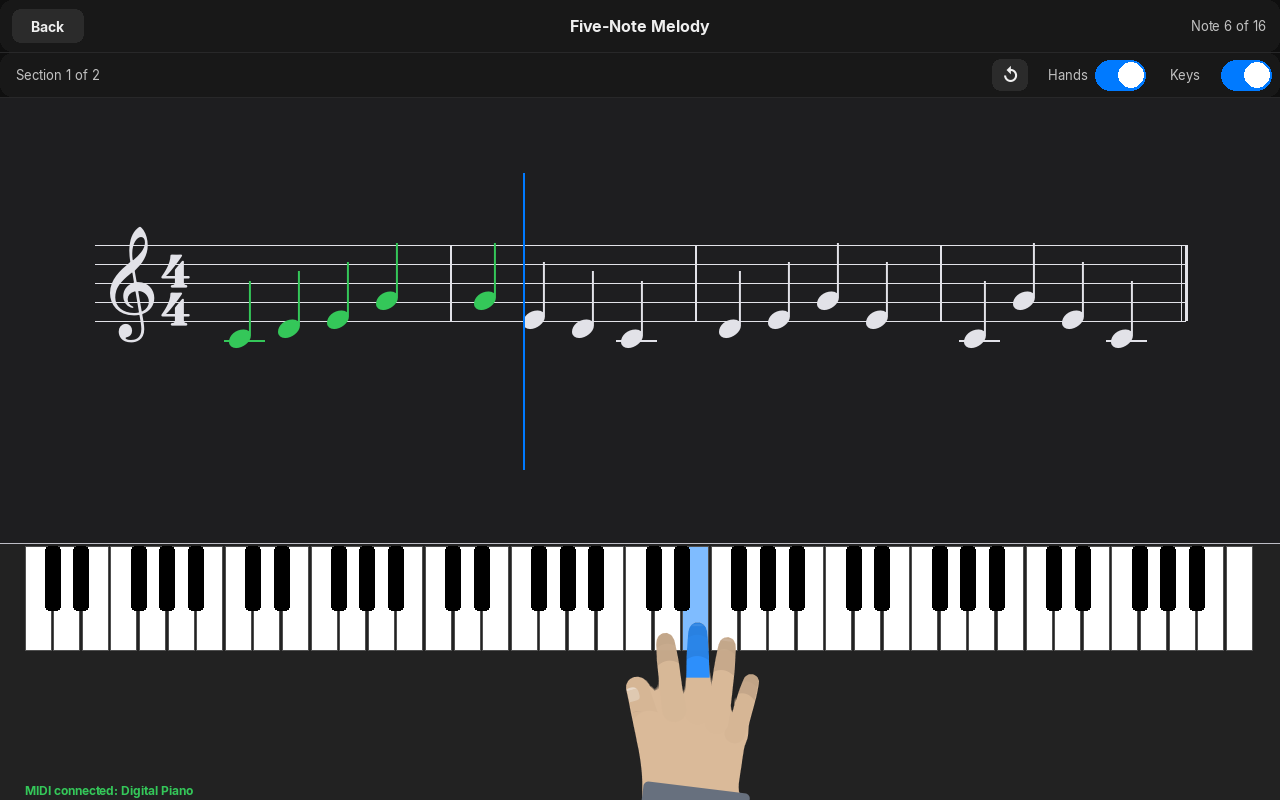
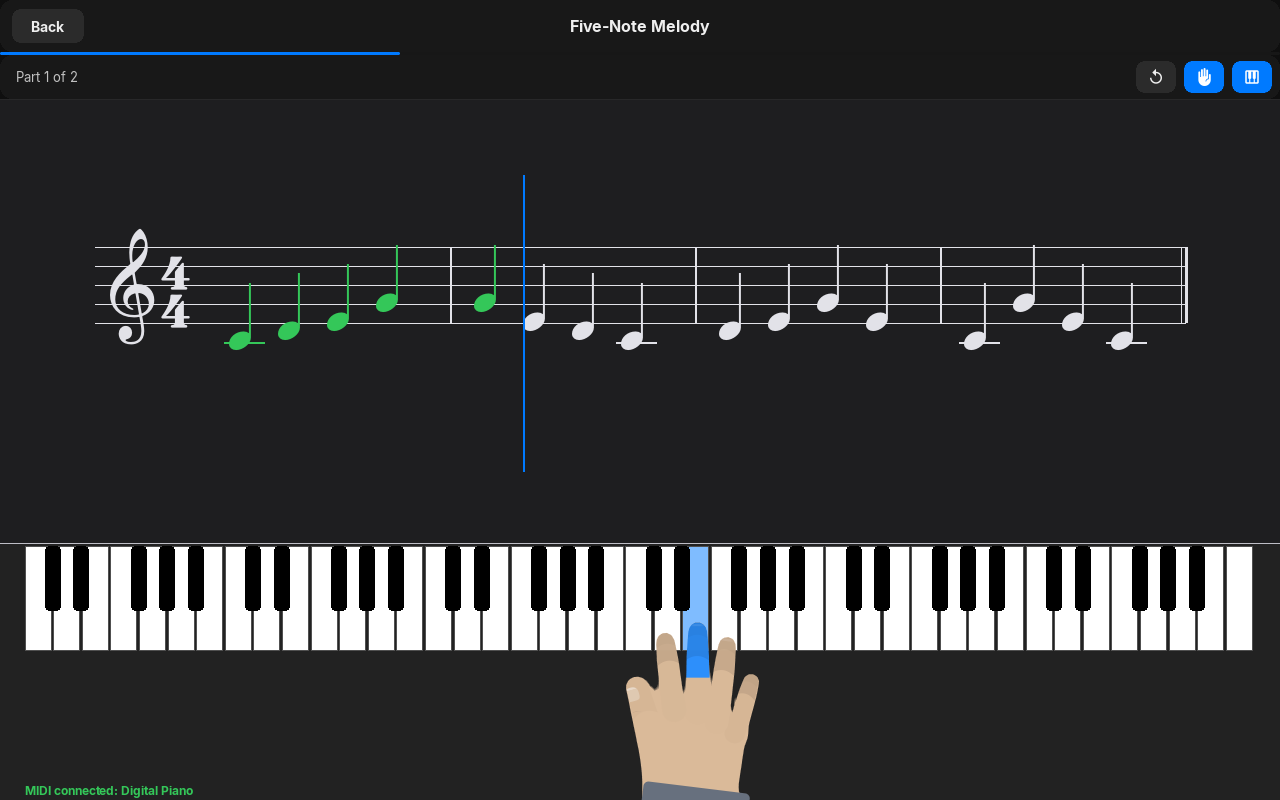
Docs, README and screenshots for the redesign
Today's session, Your Instrument and the sound question, the song page's
next step, Pianove playing the other hand, the tempo screen and the
result with your take, the twelve songs and the third course. New
screenshots: the instrument modes, the sound question, all steps of a
song, the tempo screen and the result.

Claude-Session: https://claude.ai/code/session_013g5yxCWctKonEykC6ZfNcF

Changed region(s): [[0.0625, 0.2812, 0.9375, 0.4375], [0.0, 0.0625, 0.3125, 0.125], [0.8438, 0.0312, 1.0, 0.125]]

diff --git a/docs/docs/songs.html b/docs/docs/songs.html
@@ -47,8 +47,8 @@
     <div class="sidebar-toc">
       <a href="#library">Your song library</a>
       <a href="#path">The learning path</a>
-      <a href="#tempo">Tempo and metronome</a>
-      <a href="#free">Free practice</a>
+      <a href="#tempo">Tempo, metronome and the other hand</a>
+      <a href="#free">Play it your way</a>
       <a href="#score">Reading the score</a>
     </div>
     <a href="musicxml.html">Importing MusicXML</a>
@@ -70,13 +70,14 @@
     </div>
 <section class="doc-section" id="library">
       <h2>Your song library</h2>
-      <p>The <strong>Songs</strong> tab lists every piece you imported, with its composer, length and difficulty. Pianove rates the difficulty from what makes a piece hard to play: keys per beat, whether both hands play, chords, black keys, the range each hand covers and how far it jumps. Filter by difficulty, press <strong>Import</strong> to add a piece, <strong>View</strong> to read the score and <strong>Practice</strong> to learn it. Deleting takes two taps: the bin turns into a red <em>Delete?</em>.</p>
+      <p>The <strong>Songs</strong> tab lists your pieces with their composer, length, difficulty and how far you are on their learning path. Twelve come with Pianove, in simple arrangements for both hands: <em>Mary Had a Little Lamb</em>, <em>Twinkle, Twinkle, Little Star</em>, <em>Alle meine Entchen</em>, <em>Frère Jacques</em>, <em>Ode to Joy</em>, <em>Jingle Bells</em>, <em>When the Saints Go Marching In</em>, <em>Amazing Grace</em>, <em>Greensleeves</em>, the <em>Minuet in G</em>, the theme of <em>Für Elise</em> and Pachelbel's <em>Canon in D</em>. A song you delete stays deleted. Pianove rates the difficulty from what makes a piece hard to play: keys per beat, whether both hands play, chords, black keys, the range each hand covers and how far it jumps. Filter by difficulty, press <strong>Import</strong> to add a piece, and tap a song to open it. Deleting takes two taps: the bin turns into a red <em>Delete?</em>.</p>
       <figure class="shot "><img src="../img/ss-songs.png" alt="The Songs tab" loading="lazy"><figcaption>The Songs tab</figcaption></figure>
     </section>
     <section class="doc-section" id="path">
       <h2>The learning path</h2>
-      <p>Pressing <strong>Practice</strong> opens the song's page. Its <strong>Learning path</strong> cuts the piece into parts of about twelve beats. The first part says what it asks for; every later one what it brings for the first time: <em>chords</em>, <em>black keys</em>, <em>leaps</em>, <em>a new hand position</em>, <em>faster notes</em>, <em>hands together</em>.</p>
-      <figure class="shot "><img src="../img/ss-song-path.png" alt="Chopin's Waltz in A minor as a learning path" loading="lazy"><figcaption>Chopin's Waltz in A minor as a learning path</figcaption></figure>
+      <p>A song's page shows one thing first: the <strong>next step</strong>, with <strong>Continue</strong> (or <strong>Start learning</strong>) and <strong>Listen</strong>. <strong>Adjust</strong> opens tempo, metronome and how you want to play; <strong>All steps</strong> opens the whole path. The <strong>learning path</strong> cuts the piece into parts of about twelve beats. The first part says what it asks for; every later one what it brings for the first time: <em>chords</em>, <em>black keys</em>, <em>leaps</em>, <em>a new hand position</em>, <em>faster notes</em>, <em>hands together</em>.</p>
+      <figure class="shot "><img src="../img/ss-song-path.png" alt="A song's page: the next step first" loading="lazy"><figcaption>A song's page: the next step first</figcaption></figure>
+      <figure class="shot "><img src="../img/ss-song-steps.png" alt="All steps of Chopin's Waltz in A minor" loading="lazy"><figcaption>All steps of Chopin's Waltz in A minor</figcaption></figure>
       <p>For every new part you learn:</p>
       <ol class="steps">
         <li><strong>The right hand</strong>, note by note, then in tempo.</li>
@@ -86,17 +87,17 @@
       <p>Every two parts are then <strong>joined</strong> and played in tempo one after the other, and the path ends with <strong>the whole piece</strong>. A part that repeats an earlier one is not learned twice; one that is nearly the same only gets a short step for the variation. Each step can earn up to three stars, and the next step unlocks when you finish the one before.</p>
     </section>
     <section class="doc-section" id="tempo">
-      <h2>Tempo and metronome</h2>
-      <p>The row under the mode switch applies to every step and to free practice: <strong>Tempo</strong> slows the piece down to 50–90 % of its own tempo (the BPM is shown next to it), and <strong>Metronome</strong> clicks every beat, louder on the first of the bar, whenever you play in tempo, count-in included.</p>
+      <h2>Tempo, metronome and the other hand</h2>
+      <p>Under <strong>Adjust</strong>, for every step and for playing it your way: <strong>Tempo</strong> slows the piece down to 50–90 % of its own tempo (the BPM is shown next to it), and <strong>Metronome</strong> clicks every beat, louder on the first of the bar, whenever you play in tempo, count-in included. <strong>Pianove plays the other hand</strong> (on unless you switch it off): while you learn one hand, Pianove plays the other one quietly, in a different colour, so you hear the whole piece. In tempo it keeps time; note by note it waits for you.</p>
     </section>
     <section class="doc-section" id="free">
-      <h2>Free practice</h2>
-      <p>Switch to <strong>Free practice</strong> to play the piece your way: choose the right hand, left hand or both, and the <strong>bars</strong> to work on (<em>from … to …</em>, or <em>Whole piece</em>). Then <strong>Practice</strong> (the music waits for you), <strong>Play along</strong> (in tempo after a count-in) or <strong>Listen</strong> (Pianove plays it to you, with the hands).</p>
-      <figure class="shot "><img src="../img/ss-song-free.png" alt="Free practice: bars 9–16, right hand, with tempo and metronome" loading="lazy"><figcaption>Free practice: bars 9–16, right hand, with tempo and metronome</figcaption></figure>
+      <h2>Play it your way</h2>
+      <p>Also under <strong>Adjust</strong>: choose the right hand, left hand or both, and the <strong>bars</strong> to work on (<em>from … to …</em>, or <em>Whole piece</em>). Then <strong>Note by note</strong> (the music waits for you), <strong>In tempo</strong> (after a count-in) or <strong>Listen</strong> (Pianove plays it to you, with the hands). After a run in tempo you see how it went and can listen to your take (see <a href="lessons.html#result">Lessons</a>).</p>
+      <figure class="shot "><img src="../img/ss-song-free.png" alt="Adjust: tempo, metronome, the other hand, and bars 9–16 with the right hand" loading="lazy"><figcaption>Adjust: tempo, metronome, the other hand, and bars 9–16 with the right hand</figcaption></figure>
     </section>
     <section class="doc-section" id="score">
       <h2>Reading the score</h2>
-      <p><strong>View</strong> shows the full score, typeset by <a href="../pylute.html">PyLute</a>: title and composer, grand staff, beams, chords, accidentals and ties, page by page. <strong>Practice</strong> at the top right takes you to the song's page.</p>
+      <p><strong>Sheet music</strong> (top right of a song's page) shows the full score, typeset by <a href="../pylute.html">PyLute</a>: title and composer, grand staff, beams, chords, accidentals and ties, page by page. <strong>Back</strong> returns to the song's page.</p>
       <figure class="shot "><img src="../img/ss-song-score.png" alt="The score viewer" loading="lazy"><figcaption>The score viewer</figcaption></figure>
     </section>
     <div class="doc-nav-footer"><a href="lessons.html" class="doc-nav-link"><div class="doc-nav-dir">Previous</div><div class="doc-nav-title">← Lessons &amp; Courses</div></a><a href="musicxml.html" class="doc-nav-link doc-nav-link--next"><div class="doc-nav-dir">Next</div><div class="doc-nav-title">Importing MusicXML →</div></a></div>

diff --git a/docs/docs/midi-setup.html b/docs/docs/midi-setup.html
@@ -43,10 +43,11 @@
     <span class="sidebar-group-label">Playing</span>
     <a href="midi-setup.html" class="active" aria-current="page">Keyboard &amp; Microphone</a>
     <div class="sidebar-toc">
+      <a href="#instrument">Your instrument</a>
       <a href="#midi">Connecting a MIDI keyboard</a>
       <a href="#range">Your keyboard's range</a>
-      <a href="#sound">Silent keyboards</a>
-      <a href="#microphone">Hear My Piano: the microphone</a>
+      <a href="#sound">Does your keyboard make a sound?</a>
+      <a href="#microphone">Acoustic piano: the microphone</a>
       <a href="#computer">No instrument: computer keyboard and mouse</a>
       <a href="#trouble">Troubleshooting</a>
     </div>
@@ -66,29 +67,35 @@
     <div class="docs-page-header">
       <p class="page-eyebrow">Playing</p>
       <h1>Keyboard &amp; Microphone</h1>
-      <p class="page-subtitle">Play on a MIDI keyboard, on any acoustic piano through the microphone, or on your computer keyboard.</p>
+      <p class="page-subtitle">Play on a MIDI keyboard, on any acoustic piano through the microphone, or on your computer keyboard. You choose it in one place: <strong>Settings → Your Instrument</strong>.</p>
       <div class="page-meta"><span class="meta-item">USB MIDI</span><span class="meta-item">Microphone (beta)</span><span class="meta-item">Computer keyboard</span></div>
     </div>
+<section class="doc-section" id="instrument">
+      <h2>Your instrument</h2>
+      <p><strong>Settings → Your Instrument</strong> starts with three choices: <em>MIDI keyboard</em>, <em>Acoustic piano</em> and <em>No instrument</em>. Below them you only see what belongs to your choice: the keyboard as Pianove sees it and its range, the microphone's fine-tuning, or the computer keys to use.</p>
+      <div class="shot-pair"><figure class="shot "><img src="../img/ss-instrument-mic.png" alt="Acoustic piano: Pianove listens through the microphone" loading="lazy"><figcaption>Acoustic piano: Pianove listens through the microphone</figcaption></figure><figure class="shot "><img src="../img/ss-instrument-none.png" alt="No instrument: which computer keys play which notes" loading="lazy"><figcaption>No instrument: which computer keys play which notes</figcaption></figure></div>
+    </section>
 <section class="doc-section" id="midi">
       <h2>Connecting a MIDI keyboard</h2>
       <p>Plug the keyboard in by USB, before or while Pianove is running. It is found automatically, its name appears at the bottom of the sidebar and under the on-screen keyboard (<em>MIDI connected: …</em>), and it reconnects by itself if you unplug it and plug it back in.</p>
-      <figure class="shot "><img src="../img/ss-midi-setup.png" alt="Settings → MIDI Setup: the keyboard as Pianove sees it" loading="lazy"><figcaption>Settings → MIDI Setup: the keyboard as Pianove sees it</figcaption></figure>
+      <figure class="shot "><img src="../img/ss-midi-setup.png" alt="Settings → Your Instrument: the keyboard as Pianove sees it" loading="lazy"><figcaption>Settings → Your Instrument: the keyboard as Pianove sees it</figcaption></figure>
     </section>
     <section class="doc-section" id="range">
       <h2>Your keyboard's range</h2>
       <p>Keyboards have 25, 49, 61, 76 or 88 keys. The first time a keyboard is connected, Pianove either recognises the model by name or asks you to press its <strong>lowest</strong> and then its <strong>highest</strong> key. The on-screen keyboard in lessons then matches the one in front of you.</p>
-      <p>To do it again, for example with a different keyboard, open <strong>Settings → Keyboard &amp; Sound → MIDI Setup → Reconfigure keyboard range</strong>.</p>
+      <p>To do it again, for example with a different keyboard, open <strong>Settings → Your Instrument → Reconfigure keyboard range</strong>.</p>
     </section>
     <section class="doc-section" id="sound">
-      <h2>Silent keyboards</h2>
-      <p>Many controller keyboards make no sound of their own. Turn on <strong>Settings → Keyboard &amp; Sound → MIDI Sound Output</strong> and Pianove plays a sampled grand piano for every key you press, with the sustain pedal. See <a href="synthesiser.html">Piano Sound</a>.</p>
+      <h2>Does your keyboard make a sound?</h2>
+      <p>Many controller keyboards make no sound of their own. The first time a keyboard is connected, Home asks once: <em>Does your keyboard make a sound of its own?</em> Answer <strong>No, it stays silent</strong> and Pianove plays a sampled grand piano for every key you press, with the sustain pedal; answer <strong>Yes</strong> and Pianove stays quiet. The same question, with your answer, is on <strong>Settings → Your Instrument</strong>. See <a href="synthesiser.html">Piano Sound</a>.</p>
+      <figure class="shot "><img src="../img/ss-home-sound-question.png" alt="The question on Home, asked once" loading="lazy"><figcaption>The question on Home, asked once</figcaption></figure>
     </section>
     <section class="doc-section" id="microphone">
-      <h2>Hear My Piano: the microphone</h2>
+      <h2>Acoustic piano: the microphone</h2>
       <div class="callout callout--beta"><span class="callout-icon" aria-hidden="true">β</span><div><strong>Beta.</strong> Works best in a quiet room with the microphone near the piano. Expect the odd missed or extra note on very fast or very soft passages.</div></div>
-      <p>No MIDI cable? Pianove can listen to an acoustic piano, upright or grand, through the computer's microphone and work out which keys you play. Turn on <strong>Settings → Keyboard &amp; Sound → Hear My Piano (Microphone)</strong>, or choose <em>Acoustic piano: use the microphone</em> during setup.</p>
+      <p>No MIDI cable? Pianove can listen to an acoustic piano, upright or grand, through the computer's microphone and work out which keys you play. Choose <strong>Acoustic piano</strong> in <strong>Settings → Your Instrument</strong>, or choose <em>Acoustic piano: use the microphone</em> during setup.</p>
       <ul>
-        <li><strong>Sensitivity:</strong> the slider that appears below the switch. Raise it if soft notes are missed; lower it if notes appear that you didn't play.</li>
+        <li><strong>Fine-tuning:</strong> the slider on the same page. Raise it if soft notes are missed; lower it if notes appear that you didn't play.</li>
         <li><strong>It knows what comes next:</strong> during a lesson Pianove tells the detector which keys are expected, so the right note is recognised faster and reliably.</li>
         <li><strong>Any tuning:</strong> an old piano that is a little flat is still heard on the right keys.</li>
       </ul>
@@ -113,8 +120,8 @@
         <thead><tr><th>Problem</th><th>Try this</th></tr></thead>
         <tbody>
           <tr><td>“No MIDI keyboard: play with your computer keys …”</td><td>Check the cable and that the keyboard is on. Some keyboards need to be switched to USB-MIDI mode. Close other programs (a DAW) that may hold the port.</td></tr>
-          <tr><td>The on-screen keyboard is shifted</td><td>Reconfigure the range in Settings → MIDI Setup, or check that the keyboard's octave/transpose buttons are at zero.</td></tr>
-          <tr><td>Keys play no sound</td><td>Turn on MIDI Sound Output and check the volume.</td></tr>
+          <tr><td>The on-screen keyboard is shifted</td><td>Reconfigure the range in Settings → Your Instrument, or check that the keyboard's octave/transpose buttons are at zero.</td></tr>
+          <tr><td>Keys play no sound</td><td>In Settings → Your Instrument, answer <em>No, it stays silent</em>, and check the volume.</td></tr>
           <tr><td>“No microphone found”</td><td>Allow Pianove (your terminal or Python) to use the microphone in your system's privacy settings, and install <code>sounddevice</code>.</td></tr>
         </tbody>
       </table>

diff --git a/docs/docs/lessons.html b/docs/docs/lessons.html
@@ -47,6 +47,7 @@
       <a href="#courses">Courses</a>
       <a href="#theory">Explaining: theory scenes</a>
       <a href="#exercise">Playing: the piece</a>
+      <a href="#result">After a run in tempo</a>
       <a href="#hands">Hands and fingering</a>
       <a href="#languages">Languages</a>
     </div>
@@ -66,7 +67,7 @@
       <p class="page-eyebrow">Playing</p>
       <h1>Lessons &amp; Courses</h1>
       <p class="page-subtitle">Two built-in courses that explain an idea, show it with animated hands, and let you play it.</p>
-      <div class="page-meta"><span class="meta-item">16 lessons</span><span class="meta-item">2 courses</span><span class="meta-item">English · Deutsch</span></div>
+      <div class="page-meta"><span class="meta-item">24 lessons</span><span class="meta-item">3 courses</span><span class="meta-item">English · Deutsch</span></div>
     </div>
 <section class="doc-section" id="courses">
       <h2>Courses</h2>
@@ -77,6 +78,7 @@
         <tbody>
           <tr><td class="col-name">Beginner Path</td><td>Welcome to Pianove · C Major Scale · Five-Note Melody · G Major Introduction · Simple Waltz · Left Hand Basics · Two-Octave Journey · First Song</td></tr>
           <tr><td class="col-name">Melody Explorer</td><td>Natural Notes · Motif Building · Echo Phrases · D Major Scale · Pentatonic Groove · Folk Tune · Classical Theme · Final Melody</td></tr>
+          <tr><td class="col-name">Both Hands Together</td><td>Three Chords · Eighth Notes · Reading the Bass Clef · Melody over Bass · Dotted Notes · A Minor · Accompanying a Song · Your Piece for Both Hands</td></tr>
         </tbody>
       </table>
     </section>
@@ -87,12 +89,17 @@
     </section>
     <section class="doc-section" id="exercise">
       <h2>Playing: the piece</h2>
-      <p>Then you play from the staff (top right: <em>Note 6 of 16</em>). The piece is split into <strong>sections</strong> of a few bars:</p>
+      <p>Then you play from the staff. A thin line under the top bar shows how far you are, and <em>Part 1 of 3</em> where. The piece is split into <strong>parts</strong> of a few bars:</p>
       <ol class="steps">
         <li><strong>Practice:</strong> one section at a time. The music waits for the right key; the key is lit on the on-screen keyboard. Played notes turn green, wrong ones flash red.</li>
-        <li><strong>Final performance:</strong> after a count-in, the whole piece in tempo, with a moving cursor.</li>
+        <li><strong>In tempo:</strong> before it starts, a short screen says what changes now (the music no longer waits, keep going after a slip) and lets you go note by note once more. Then, after a count-in, the whole piece in tempo, with a moving cursor.</li>
       </ol>
-      <p>If too many notes go wrong in a row, Pianove steps back a section so you can consolidate it before moving on. The switches at the top hide or show the hands and the keys. In dark mode the staff is a dark sheet too, so long sessions are easier on the eyes.</p>
+      <p>If too many notes go wrong in a row, Pianove steps back a part so you can consolidate it before moving on. The two buttons at the top right hide or show the hands and the keys; ↻ starts the part again. In dark mode the staff is a dark sheet too, so long sessions are easier on the eyes.</p>
+    </section>
+    <section class="doc-section" id="result">
+      <h2>After a run in tempo</h2>
+      <p>The finish screen tells you more than a score: how many notes you hit, how many were <strong>on time</strong> (and whether you tend to rush or drag), and how this run compares with the last one. <strong>Listen to your take</strong> plays back exactly what you played; <strong>Save as audio</strong> writes it as a WAV file to your <code>Music/Pianove</code> folder. The same works for songs.</p>
+      <div class="shot-pair"><figure class="shot "><img src="../img/ss-tempo-intro.png" alt="Before the run in tempo" loading="lazy"><figcaption>Before the run in tempo</figcaption></figure><figure class="shot "><img src="../img/ss-result.png" alt="After it: timing, the last run, your take" loading="lazy"><figcaption>After it: timing, the last run, your take</figcaption></figure></div>
     </section>
     <section class="doc-section" id="hands">
       <h2>Hands and fingering</h2>

diff --git a/docs/docs/quickstart.html b/docs/docs/quickstart.html
@@ -90,22 +90,22 @@ pip install -r requirements.txt</code></pre>
     </section>
     <section class="doc-section" id="home">
       <h2>3. Find your way around</h2>
-      <p>After the setup you land on <strong>Home</strong>. The sidebar holds the four main areas: <strong>Home</strong>, <strong>Songs</strong>, <strong>Lessons</strong> and <strong>Practice</strong>, plus <strong>Settings</strong> at the bottom. With Creator Mode switched on, a fifth tab, <strong>Create</strong>, appears.</p>
+      <p>After the setup you land on <strong>Home</strong>. The sidebar holds the four main areas: <strong>Home</strong>, <strong>Songs</strong>, <strong>Lessons</strong> and <strong>Sight-Reading</strong>, plus <strong>Settings</strong> at the bottom. Not sure what to do? <strong>Today's session</strong> at the top of Home puts together a few minutes of practice for you. With Creator Mode switched on, a fifth tab, <strong>Create</strong>, appears.</p>
       <figure class="shot "><img src="../img/ss-home.png" alt="Home: what to do next, your streak and this week's practice" loading="lazy"><figcaption>Home: what to do next, your streak and this week's practice</figcaption></figure>
     </section>
     <section class="doc-section" id="first-lesson">
       <h2>4. Play your first lesson</h2>
       <ol class="steps">
-        <li>On the last setup screen press <strong>Start your first lesson</strong>. Later, <strong>Continue</strong> on Home takes you to the next one.</li>
+        <li>On the last setup screen press <strong>Start your first lesson</strong>. Later, <strong>Continue</strong> on Home takes you back to where you left off.</li>
         <li>The lesson first <strong>explains</strong> the idea in a few short animated screens. Read, listen, and play the keys it asks for.</li>
         <li>Then you <strong>play the piece</strong> from the staff. The key to play next is lit on the on-screen keyboard, and an animated hand shows the finger; the music waits for you. Play it on your keyboard, with the computer keys, or click it.</li>
-        <li>After each section comes the <strong>final performance</strong>: the whole piece in tempo, after a count-in.</li>
+        <li>After the parts you play the <strong>whole piece in tempo</strong>, after a count-in. Then you see how many notes were on time and can listen to your take.</li>
       </ol>
       <figure class="shot "><img src="../img/ss-lesson.png" alt="A lesson piece: notes you've played turn green, the blue line shows where you are" loading="lazy"><figcaption>A lesson piece: notes you've played turn green, the blue line shows where you are</figcaption></figure>
     </section>
     <section class="doc-section" id="first-song">
       <h2>5. Learn a song of your own</h2>
-      <p>Open <strong>Songs</strong>, press <strong>Import</strong> and pick a MusicXML file (<code>.musicxml</code>, <code>.xml</code> or <code>.mxl</code>). The repository includes one to try: <code>waltz-in-a-minorchopin.mxl</code>. Press <strong>Practice</strong> and Pianove builds a learning path that takes you from the first bars to the whole piece.</p>
+      <p>Open <strong>Songs</strong>: twelve pieces are already there, from <em>Mary Had a Little Lamb</em> to <em>Für Elise</em>. For more, press <strong>Import</strong> and pick a MusicXML file (<code>.musicxml</code>, <code>.xml</code> or <code>.mxl</code>); the repository includes <code>waltz-in-a-minorchopin.mxl</code> to try. Tap a song and Pianove builds a learning path that takes you from the first bars to the whole piece.</p>
       <p>Where to go next: <a href="songs.html">Songs &amp; Learning Path</a>, <a href="midi-setup.html">Keyboard &amp; Microphone</a>, <a href="settings.html">Settings</a>.</p>
     </section>
     <div class="doc-nav-footer"><div></div><a href="requirements.html" class="doc-nav-link doc-nav-link--next"><div class="doc-nav-dir">Next</div><div class="doc-nav-title">System Requirements →</div></a></div>

diff --git a/docs/docs/settings.html b/docs/docs/settings.html
@@ -73,19 +73,15 @@
         <thead><tr><th>Section</th><th>Setting</th><th>What it does</th></tr></thead>
         <tbody>
           <tr><td rowspan="2">Profile</td><td class="col-name">Name</td><td>How Pianove greets you</td></tr>
-          <tr><td class="col-name">Daily Goal</td><td>Minutes of practice a day, 5 to 60 (<a href="progress.html#home">more</a>)</td></tr>
-          <tr><td rowspan="6">Keyboard &amp; Sound</td><td class="col-name">MIDI Setup</td><td>The connected keyboard, its range and calibration (<a href="midi-setup.html#range">more</a>)</td></tr>
-          <tr><td class="col-name">Computer Keyboard</td><td>How to play without an instrument (<a href="midi-setup.html#computer">more</a>)</td></tr>
-          <tr><td class="col-name">MIDI Sound Output</td><td>Piano sound for silent keyboards; says so when the sound is unavailable (<a href="synthesiser.html">more</a>)</td></tr>
-          <tr><td class="col-name">Volume</td><td>Level of the piano sound, in percent</td></tr>
-          <tr><td class="col-name">Hear My Piano</td><td>Play an acoustic piano through the microphone (beta) (<a href="midi-setup.html#microphone">more</a>)</td></tr>
-          <tr><td class="col-name">Microphone Sensitivity</td><td>Shown while the microphone is on</td></tr>
+          <tr><td class="col-name">Daily Goal</td><td>Minutes of practice a day, 5 to 60; also sets how long today's session is (<a href="progress.html#home">more</a>)</td></tr>
+          <tr><td rowspan="2">Keyboard &amp; Sound</td><td class="col-name">Your Instrument</td><td>What you play on: a MIDI keyboard (its range, and whether Pianove makes the sound), an acoustic piano through the microphone, or the computer keys. Everything about it is on that one page (<a href="midi-setup.html">more</a>)</td></tr>
+          <tr><td class="col-name">Volume</td><td>Level of the piano sound, the metronome and listening, in percent; says so when the sound is unavailable (<a href="synthesiser.html">more</a>)</td></tr>
           <tr><td rowspan="2">Lessons</td><td class="col-name">Show Hands</td><td>The animated hands and their fingering (<a href="lessons.html#hands">more</a>)</td></tr>
           <tr><td class="col-name">Hands</td><td>Their skin tone</td></tr>
           <tr><td>Language</td><td class="col-name">Deutsch · English</td><td>The app and all built-in lessons</td></tr>
           <tr><td>Appearance</td><td class="col-name">Dark Mode</td><td>Dark or light colours, the staff included</td></tr>
           <tr><td>Content Creator</td><td class="col-name">Creator Mode</td><td>Adds the Create tab with the lesson and course editors (<a href="creator.html">more</a>)</td></tr>
-          <tr><td></td><td class="col-name">Reset Onboarding</td><td>Runs the first-start setup again; your progress stays</td></tr>
+          <tr><td></td><td class="col-name">Repeat the Setup</td><td>Runs the first-start setup again; your progress stays</td></tr>
         </tbody>
       </table>
     </section>

diff --git a/docs/docs/progress.html b/docs/docs/progress.html
@@ -77,11 +77,13 @@
       <h2>The Home dashboard</h2>
       <ul>
         <li><strong>Day streak</strong> (top right): days in a row you practised.</li>
-        <li><strong>Continue where you left off:</strong> the next lesson of your course.</li>
-        <li><strong>Today's goal:</strong> minutes practised today against your daily goal (10 minutes unless you change it in <strong>Settings → Profile → Daily Goal</strong>, 5 to 60). Reached, the ring turns into a tick.</li>
+        <li><strong>Today's session:</strong> a short plan made from where you are: a sight-reading warm-up, your next lesson, the next step of the song you're learning, and for a longer daily goal a little more sight-reading. <strong>Start</strong> opens the first item; each finish screen offers the next one, and the plan is kept for the day.</li>
+        <li><strong>Continue where you left off:</strong> the song or lesson you opened last, with a link to the other.</li>
+        <li><strong>Today's goal:</strong> minutes practised today against your daily goal (10 minutes unless you change it: tap the card, or <strong>Settings → Profile → Daily Goal</strong>, 5 to 60). Reached, the ring turns into a tick.</li>
         <li><strong>Your progress:</strong> streak, lessons done and total practice time.</li>
         <li><strong>Last 7 days:</strong> minutes per day as bars, today highlighted, with the goal as a dashed line.</li>
-        <li><strong>Sight reading</strong> (once you've done some): sessions, accuracy and sessions this week, then the <strong>achievements</strong>.</li>
+        <li><strong>Sight-reading</strong> (once you've done some): sessions, accuracy and sessions this week.</li>
+        <li><strong>Your repertoire:</strong> the songs you've learned all the way through, to play again with one tap; then the <strong>achievements</strong>.</li>
       </ul>
       <div class="shot-pair"><figure class="shot "><img src="../img/ss-home.png" alt="Home in dark mode" loading="lazy"><figcaption>Home in dark mode</figcaption></figure><figure class="shot "><img src="../img/ss-home-light.png" alt="…and in light mode" loading="lazy"><figcaption>…and in light mode</figcaption></figure></div>
     </section>

diff --git a/docs/docs/requirements.html b/docs/docs/requirements.html
@@ -84,7 +84,7 @@
           <tr><td class="col-name">mido</td><td>Reading MIDI messages from your keyboard.</td></tr>
           <tr><td class="col-name">python-rtmidi</td><td>The MIDI backend mido uses to talk to USB devices.</td></tr>
           <tr><td class="col-name">pyfluidsynth</td><td>The Python side of the piano sound (see FluidSynth below).</td></tr>
-          <tr><td class="col-name">sounddevice</td><td>Recording from the microphone. Only used by <em>Hear My Piano</em>.</td></tr>
+          <tr><td class="col-name">sounddevice</td><td>Recording from the microphone. Only used when you play an acoustic piano through the microphone.</td></tr>
         </tbody>
       </table>
       <p>The two libraries Pianove is built on, <a href="../pylute.html">PyLute</a> and <a href="../pylay.html">PyLay</a>, live in the repository and are picked up automatically; there is nothing extra to install for them.</p>
@@ -108,7 +108,7 @@
       <h2>Something to play on</h2>
       <ul>
         <li><strong>A MIDI keyboard</strong> (recommended): any class-compliant USB MIDI keyboard or digital piano. Pianove asks for its lowest and highest key once, or recognises common models by name.</li>
-        <li><strong>An acoustic piano and a microphone</strong> (beta): the built-in laptop or phone microphone is enough. See <a href="midi-setup.html#microphone">Hear My Piano</a>.</li>
+        <li><strong>An acoustic piano and a microphone</strong> (beta): the built-in laptop or phone microphone is enough. See <a href="midi-setup.html#microphone">Acoustic piano: the microphone</a>.</li>
         <li><strong>Nothing at all</strong>: the computer keyboard plays notes (<kbd>A</kbd>–<kbd>L</kbd> for the white keys), and you can click the keys on screen. Good for trying Pianove out; a real keyboard is better for learning.</li>
       </ul>
     </section>

diff --git a/docs/index.html b/docs/index.html
@@ -175,7 +175,7 @@
       <div class="tour-text">
         <p class="tour-eyebrow">Any piano</p>
         <h2>A MIDI keyboard, the piano you already have, or none.</h2>
-        <p>Plug in a USB keyboard and Pianove finds it and its range. No cable? Hear My Piano listens to an acoustic piano through the microphone and works out the keys you play, on your own computer. Nothing at all yet? Your computer keyboard and the mouse play notes too.</p>
+        <p>Plug in a USB keyboard and Pianove finds it and its range. No cable? Pianove listens to an acoustic piano through the microphone and works out the keys you play, on your own computer. Nothing at all yet? Your computer keyboard and the mouse play notes too.</p>
         <a href="docs/midi-setup.html" class="story-link">Keyboard &amp; Microphone →</a>
       </div>
       <figure class="tour-shot"><img src="img/ss-onboarding-midi.png" alt="A MIDI keyboard, or the piano you already have." loading="lazy"></figure>
@@ -228,7 +228,7 @@
           <span class="landing-project-type">Application</span>
         </div>
         <p class="landing-project-desc">
-          The application built on both libraries: 16 lessons in two courses, learning paths for
+          The application built on both libraries: 24 lessons in three courses, twelve songs and learning paths for
           your own songs, sight-reading practice, a lesson editor, MIDI or microphone input and a
           sampled grand piano — entirely offline.
         </p>

diff --git a/docs/docs/synthesiser.html b/docs/docs/synthesiser.html
@@ -74,7 +74,7 @@
       <p>Pianove plays piano sound in two situations:</p>
       <ul>
         <li><strong>Demos:</strong> theory scenes, <em>Listen</em> and the editors' preview play phrases for you.</li>
-        <li><strong>Your keys:</strong> with <strong>Settings → Keyboard &amp; Sound → MIDI Sound Output</strong> on, every key you press on a MIDI keyboard sounds, including the sustain pedal. Leave it off if your digital piano has its own speakers.</li>
+        <li><strong>Your keys:</strong> when you've told Pianove that your keyboard stays silent (<strong>Settings → Your Instrument</strong>; Home asks once when a keyboard is first connected), every key you press on a MIDI keyboard sounds, including the sustain pedal. If your digital piano has its own speakers, Pianove stays quiet.</li>
       </ul>
     </section>
     <section class="doc-section" id="engine">

diff --git a/docs/docs/practice.html b/docs/docs/practice.html
@@ -67,7 +67,7 @@
     </div>
 <section class="doc-section" id="setup">
       <h2>Setting up a session</h2>
-      <p>The <strong>Practice</strong> tab generates a new piece of music every time, so you read rather than remember. The level starts where your answer in the setup puts you. Choose:</p>
+      <p>The <strong>Sight-Reading</strong> tab generates a new piece of music every time, so you read rather than remember. The level starts where your answer in the setup puts you. Choose:</p>
       <ul>
         <li><strong>Clef:</strong> treble (right hand) or bass (left hand)</li>
         <li><strong>Difficulty:</strong> beginner, intermediate or advanced: range, steps or leaps, note values</li>

diff --git a/scripts/screenshot_pianove.py b/scripts/screenshot_pianove.py
@@ -344,6 +344,24 @@ def shot_tempo_intro():
     ctx.lesson_intro = None
 
 
+def shot_result():
+    """The finish screen after a run in tempo: how it went, timing, and the take."""
+    from pianove.pages.lesson import store_result
+    from pianove import recording
+    start_lesson("five_note_melody", "beginner_path", 2, step=1)
+    store_result("lesson:five_note_melody", 12, 16, [0.03] * 9)           # last time
+    ctx.last_result = store_result("lesson:five_note_melody", 15, 16,
+                                   [0.02, -0.04, 0.05, 0.12, 0.01, -0.03, 0.06, 0.0, 0.04,
+                                    -0.11, 0.03, 0.02, 0.07, -0.02, 0.05])
+    recording.keep([(0.5 * i, 1, 60 + i % 5, 80, 0) for i in range(8)], "Five-Note Melody")
+    ctx.lesson_phase = "performance"
+    ctx.lesson_completed = True
+    ctx.lesson_current_idx = 10 ** 6
+    go("lesson", 80); save("ss-result")
+    ctx.lesson_completed = False
+    ctx.lesson_current_idx = 0
+
+
 def shot_practice():
     home_tab("practice"); save("ss-practice")
 

diff --git a/README.md b/README.md
@@ -32,7 +32,7 @@ Pianove is built in Python on pygame, together with two libraries of its own, fo
 <td width="50%" valign="top">
 
 ### Lessons that explain, then let you play
-16 lessons in two courses. Each starts with a short animated scene (text, keyboard, staff and a hand that shows how it is played), then you play the piece from the staff, section by section, up to a final performance in tempo.
+24 lessons in three courses. Each starts with a short animated scene (text, keyboard, staff and a hand that shows how it is played), then you play the piece from the staff, section by section, up to a run in tempo. Afterwards you see how many notes were on time and how it compares with last time, and you can listen to your take or save it as audio.
 
 </td>
 <td width="50%"><img src="docs/img/ss-lesson.png" alt="Playing a lesson piece"></td>
@@ -42,7 +42,7 @@ Pianove is built in Python on pygame, together with two libraries of its own, fo
 <td valign="top">
 
 ### Any piece, as a learning path
-Import a MusicXML file and Pianove cuts it into parts, names what is new in each (chords, leaps, black keys, hands together) and takes you through right hand, left hand and both, up to the whole piece, with up to three stars per step. Slow it down, switch on the metronome, or loop the bars you're stuck on.
+Twelve public-domain pieces come with the app, from *Mary Had a Little Lamb* to Pachelbel's *Canon*; import any MusicXML file for more. Pianove cuts a piece into parts, names what is new in each (chords, leaps, black keys, hands together) and takes you through right hand, left hand and both, up to the whole piece, with up to three stars per step. While you learn one hand, Pianove plays the other, so you always hear the whole piece. Slow it down, switch on the metronome, or loop the bars you're stuck on.
 
 </td>
 </tr>
@@ -68,10 +68,12 @@ Write your own lessons and courses in the app, with a live preview, a score edit
 
 ## Features
 
-- **16 built-in lessons** in two courses (*Beginner Path*, *Melody Explorer*), in English and German; the setup asks how much you've played and suggests where to start
-- **Songs:** import any MusicXML file (`.musicxml`, `.xml`, `.mxl`), read the full score, and learn it on a **learning path** or in free practice: one hand or both, any range of bars, 50–100 % tempo, with a metronome
+- **Today's session:** one tap on Home starts a short plan made from where you are: a sight-reading warm-up, your next lesson, the next step of your song
+- **24 built-in lessons** in three courses (*Beginner Path*, *Melody Explorer*, *Both Hands Together*), in English and German; the setup asks how much you've played and suggests where to start
+- **12 songs to start with**, arranged for both hands; **import** any MusicXML file (`.musicxml`, `.xml`, `.mxl`), read the full score, and learn it on a **learning path** or in free practice: one hand or both, any range of bars, 50–100 % tempo, with a metronome; Pianove plays the hand you're not practising
+- **Feedback after every run in tempo:** notes on time, early or late, the change since last time, and your take to listen to or save as a WAV file
 - **Sight-reading practice:** endless generated exercises by clef, key, level and tempo
-- **Play on anything:** a USB MIDI keyboard (found and calibrated automatically), an acoustic piano through the microphone *(beta, local numpy note detector)*, or the computer keyboard and mouse
+- **Play on anything**, chosen in one place (*Settings → Your Instrument*): a USB MIDI keyboard (found and calibrated automatically), an acoustic piano through the microphone *(beta, local numpy note detector)*, or the computer keyboard and mouse
 - **Animated hands with automatic fingering** in lessons and songs
 - **Honest progress:** practice time measured from what you play, a daily goal in minutes, streaks that count lessons, songs and sight-reading, the last 7 days as a chart, achievements
 - **Built-in grand piano sound** (FluidSynth + Salamander C5 SoundFont); without it Pianove runs silently and says why
@@ -104,11 +106,13 @@ No keyboard? Choose *Use the microphone* during setup for an acoustic piano, or 
 | Home | Lessons | Songs |
 |---|---|---|
 | ![Home](docs/img/ss-home.png) | ![Lessons](docs/img/ss-lessons.png) | ![Songs](docs/img/ss-songs.png) |
-| **Free practice** | **Score viewer** | **Sight-reading practice** |
-| ![Free practice](docs/img/ss-song-free.png) | ![Score viewer](docs/img/ss-song-score.png) | ![Practice](docs/img/ss-practice.png) |
-| **Settings** | **First-start setup** | **Course** |
-| ![Settings](docs/img/ss-settings.png) | ![Setup](docs/img/ss-onboarding-ready.png) | ![Course](docs/img/ss-course.png) |
-| **Light mode** | **Keyboard setup** | **Creator Mode** |
+| **A song, adjusted** | **Score viewer** | **Sight-reading** |
+| ![A song's settings](docs/img/ss-song-free.png) | ![Score viewer](docs/img/ss-song-score.png) | ![Practice](docs/img/ss-practice.png) |
+| **Settings** | **Your instrument** | **Course** |
+| ![Settings](docs/img/ss-settings.png) | ![Your instrument](docs/img/ss-midi-setup.png) | ![Course](docs/img/ss-course.png) |
+| **After a run in tempo** | **Before the run in tempo** | **First-start setup** |
+| ![Result](docs/img/ss-result.png) | ![Tempo](docs/img/ss-tempo-intro.png) | ![Setup](docs/img/ss-onboarding-ready.png) |
+| **Light mode** | **Setup: your keyboard** | **Creator Mode** |
 | ![Home in light mode](docs/img/ss-home-light.png) | ![Onboarding](docs/img/ss-onboarding-midi.png) | ![Create tab](docs/img/ss-creator.png) |
 
 ## What's inside
@@ -126,11 +130,14 @@ Pianove/
 ├── main.py                 entry point
 ├── pianove/                the application
 │   ├── pages/              full-screen pages: onboarding, lesson player, theory scenes, editors
-│   ├── home/               the tabs: Home, Songs, Lessons, Practice, Create, Settings
+│   ├── home/               the tabs: Home, Songs, Lessons, Sight-Reading, Create, Settings
 │   ├── lessons/ courses/   built-in content (JSON, see LESSON_FORMAT.md)
+│   ├── assets/songs/       the songs that come with the app (MusicXML)
 │   ├── audio_input/        microphone note detection
 │   ├── midi/               MIDI keyboard input and the on-screen keyboard
 │   ├── song_path.py        learning paths for imported songs
+│   ├── session.py          today's session on Home
+│   ├── recording.py        your take: listen back, save as WAV
 │   ├── fingering.py        automatic fingering
 │   ├── hands.py            animated hands
 │   ├── progress.py         practice time, streaks, daily goal
@@ -139,7 +146,7 @@ Pianove/
 ├── PyLute/                 notation renderer library
 ├── PyLay/                  UI framework library
 ├── docs/                   website and user guide (static HTML)
-├── scripts/                screenshots, detector evaluation, piano templates
+├── scripts/                screenshots, the bundled songs, detector evaluation, piano templates
 ├── tests/                  pytest suite
 ├── pianove.spec            PyInstaller build of the stand-alone app
 └── .github/workflows/      builds the apps for Windows, macOS and Linux
